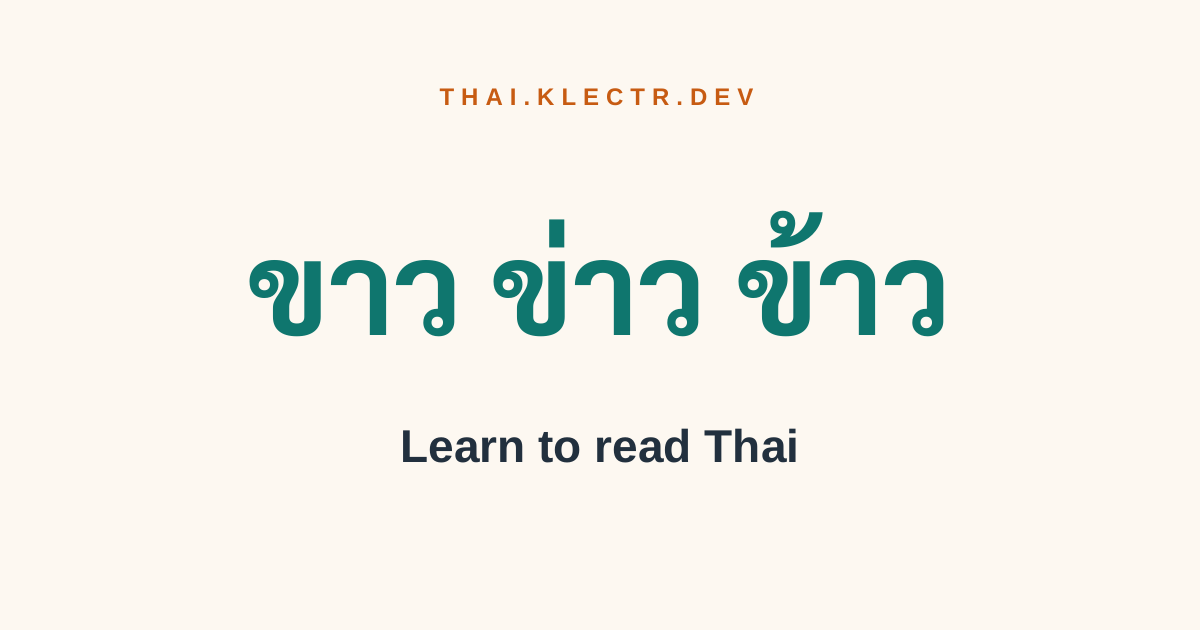
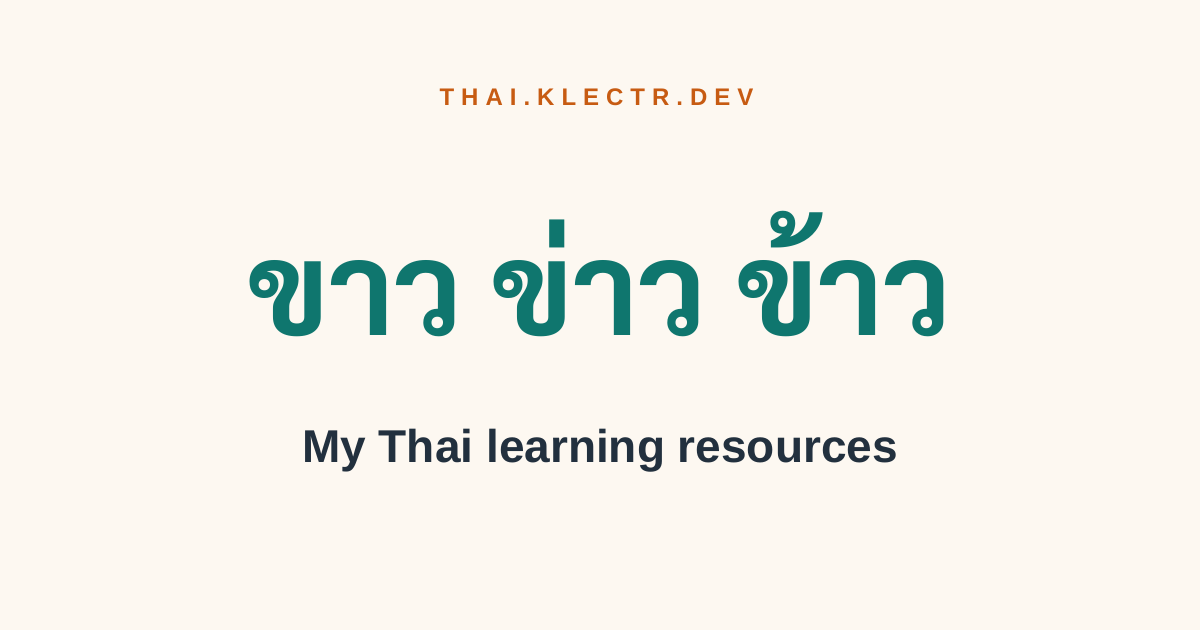
copy: frame the site as shared personal resources, not a course promise

Changed region(s): [[0.2467, 0.6635, 0.7708, 0.754]]

diff --git a/index.html b/index.html
@@ -7,13 +7,13 @@
 <meta name="description" content="Learn to read Thai one pattern at a time. A primer that stays free forever, weekly printable worksheets, and short lessons, from a learner studying every morning.">
 <link rel="stylesheet" href="assets/site.css">
 <meta property="og:type" content="website">
-<meta property="og:site_name" content="Learn to Read Thai">
-<meta property="og:title" content="Learn to Read Thai">
+<meta property="og:site_name" content="thai.klectr.dev">
+<meta property="og:title" content="My Thai learning resources">
 <meta property="og:description" content="One short lesson every Sunday, with a free practice pack. The primer is free forever, no email needed.">
 <meta property="og:image" content="https://thai.klectr.dev/assets/og-home.png">
 <meta property="og:url" content="https://thai.klectr.dev/">
 <meta name="twitter:card" content="summary_large_image">
-<meta name="twitter:title" content="Learn to Read Thai">
+<meta name="twitter:title" content="My Thai learning resources">
 <meta name="twitter:description" content="One short lesson every Sunday, with a free practice pack. The primer is free forever, no email needed.">
 <meta name="twitter:image" content="https://thai.klectr.dev/assets/og-home.png">
 </head>

diff --git a/lessons/index.html b/lessons/index.html
@@ -7,7 +7,7 @@
 <meta name="description" content="Short lessons, one Thai reading pattern each: dead syllables, tone marks, silent letters, consonant clusters, and the karan mark.">
 <link rel="stylesheet" href="../assets/site.css">
 <meta property="og:type" content="website">
-<meta property="og:site_name" content="Learn to Read Thai">
+<meta property="og:site_name" content="thai.klectr.dev">
 <meta property="og:title" content="Lessons — Read Thai | thai.klectr.dev">
 <meta property="og:description" content="Short lessons, one Thai reading pattern each: dead syllables, tone marks, silent letters, consonant clusters, and the karan mark.">
 <meta property="og:image" content="https://thai.klectr.dev/assets/og-home.png">

diff --git a/lessons/the-missing-in.html b/lessons/the-missing-in.html
@@ -618,7 +618,7 @@ figure > img,
 </style>
 
 <meta property="og:type" content="website">
-<meta property="og:site_name" content="Learn to Read Thai">
+<meta property="og:site_name" content="thai.klectr.dev">
 <meta property="og:title" content="The Missing ั in อัว">
 <meta property="og:description" content="A short, free lesson on reading Thai from thai.klectr.dev. One new lesson every Sunday.">
 <meta property="og:image" content="https://thai.klectr.dev/assets/og-home.png">

diff --git a/lessons/karan-inside-longer-words.html b/lessons/karan-inside-longer-words.html
@@ -618,7 +618,7 @@ figure > img,
 </style>
 
 <meta property="og:type" content="website">
-<meta property="og:site_name" content="Learn to Read Thai">
+<meta property="og:site_name" content="thai.klectr.dev">
 <meta property="og:title" content="Karan Inside Longer Words">
 <meta property="og:description" content="A short, free lesson on reading Thai from thai.klectr.dev. One new lesson every Sunday.">
 <meta property="og:image" content="https://thai.klectr.dev/assets/og-home.png">

diff --git a/lessons/false-consonant-clusters.html b/lessons/false-consonant-clusters.html
@@ -618,7 +618,7 @@ figure > img,
 </style>
 
 <meta property="og:type" content="website">
-<meta property="og:site_name" content="Learn to Read Thai">
+<meta property="og:site_name" content="thai.klectr.dev">
 <meta property="og:title" content="False Consonant Clusters">
 <meta property="og:description" content="A short, free lesson on reading Thai from thai.klectr.dev. One new lesson every Sunday.">
 <meta property="og:image" content="https://thai.klectr.dev/assets/og-home.png">

diff --git a/lessons/mai-tri-and-mai-chattawa.html b/lessons/mai-tri-and-mai-chattawa.html
@@ -618,7 +618,7 @@ figure > img,
 </style>
 
 <meta property="og:type" content="website">
-<meta property="og:site_name" content="Learn to Read Thai">
+<meta property="og:site_name" content="thai.klectr.dev">
 <meta property="og:title" content="Mai Tri and Mai Chattawa">
 <meta property="og:description" content="A short, free lesson on reading Thai from thai.klectr.dev. One new lesson every Sunday.">
 <meta property="og:image" content="https://thai.klectr.dev/assets/og-home.png">

diff --git a/lessons/true-consonant-clusters.html b/lessons/true-consonant-clusters.html
@@ -618,7 +618,7 @@ figure > img,
 </style>
 
 <meta property="og:type" content="website">
-<meta property="og:site_name" content="Learn to Read Thai">
+<meta property="og:site_name" content="thai.klectr.dev">
 <meta property="og:title" content="True Consonant Clusters">
 <meta property="og:description" content="A short, free lesson on reading Thai from thai.klectr.dev. One new lesson every Sunday.">
 <meta property="og:image" content="https://thai.klectr.dev/assets/og-home.png">

diff --git a/lessons/karan-and-vowel-length.html b/lessons/karan-and-vowel-length.html
@@ -618,7 +618,7 @@ figure > img,
 </style>
 
 <meta property="og:type" content="website">
-<meta property="og:site_name" content="Learn to Read Thai">
+<meta property="og:site_name" content="thai.klectr.dev">
 <meta property="og:title" content="Karan and Vowel Length">
 <meta property="og:description" content="A short, free lesson on reading Thai from thai.klectr.dev. One new lesson every Sunday.">
 <meta property="og:image" content="https://thai.klectr.dev/assets/og-home.png">

diff --git a/lessons/karans-last-two-words.html b/lessons/karans-last-two-words.html
@@ -618,7 +618,7 @@ figure > img,
 </style>
 
 <meta property="og:type" content="website">
-<meta property="og:site_name" content="Learn to Read Thai">
+<meta property="og:site_name" content="thai.klectr.dev">
 <meta property="og:title" content="Karan's Last Two Words">
 <meta property="og:description" content="A short, free lesson on reading Thai from thai.klectr.dev. One new lesson every Sunday.">
 <meta property="og:image" content="https://thai.klectr.dev/assets/og-home.png">

diff --git a/lessons/thai-dead-syllables.html b/lessons/thai-dead-syllables.html
@@ -618,7 +618,7 @@ figure > img,
 </style>
 
 <meta property="og:type" content="website">
-<meta property="og:site_name" content="Learn to Read Thai">
+<meta property="og:site_name" content="thai.klectr.dev">
 <meta property="og:title" content="Thai Dead Syllables">
 <meta property="og:description" content="A short, free lesson on reading Thai from thai.klectr.dev. One new lesson every Sunday.">
 <meta property="og:image" content="https://thai.klectr.dev/assets/og-home.png">

diff --git a/lessons/mai-ek-and-mai-tho.html b/lessons/mai-ek-and-mai-tho.html
@@ -618,7 +618,7 @@ figure > img,
 </style>
 
 <meta property="og:type" content="website">
-<meta property="og:site_name" content="Learn to Read Thai">
+<meta property="og:site_name" content="thai.klectr.dev">
 <meta property="og:title" content="Mai Ek and Mai Tho">
 <meta property="og:description" content="A short, free lesson on reading Thai from thai.klectr.dev. One new lesson every Sunday.">
 <meta property="og:image" content="https://thai.klectr.dev/assets/og-home.png">

diff --git a/lessons/the-doubled-ro.html b/lessons/the-doubled-ro.html
@@ -618,7 +618,7 @@ figure > img,
 </style>
 
 <meta property="og:type" content="website">
-<meta property="og:site_name" content="Learn to Read Thai">
+<meta property="og:site_name" content="thai.klectr.dev">
 <meta property="og:title" content="The Doubled รร">
 <meta property="og:description" content="A short, free lesson on reading Thai from thai.klectr.dev. One new lesson every Sunday.">
 <meta property="og:image" content="https://thai.klectr.dev/assets/og-home.png">
